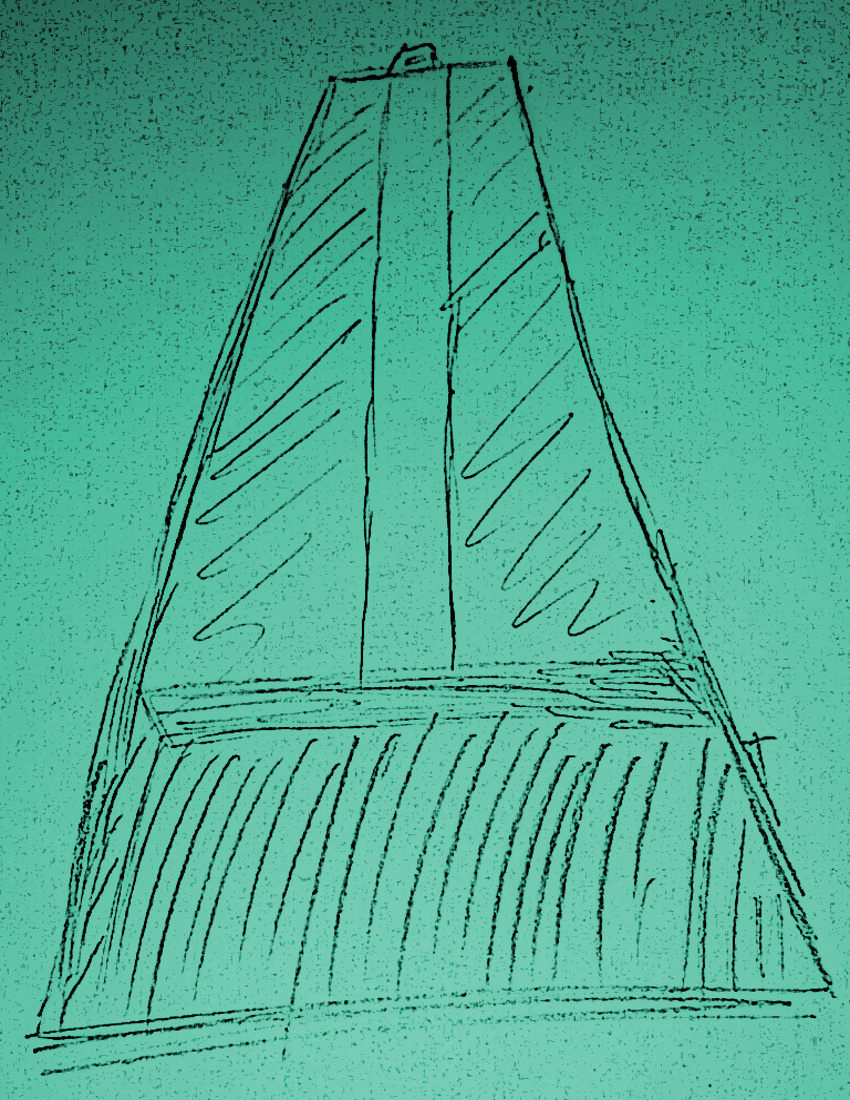
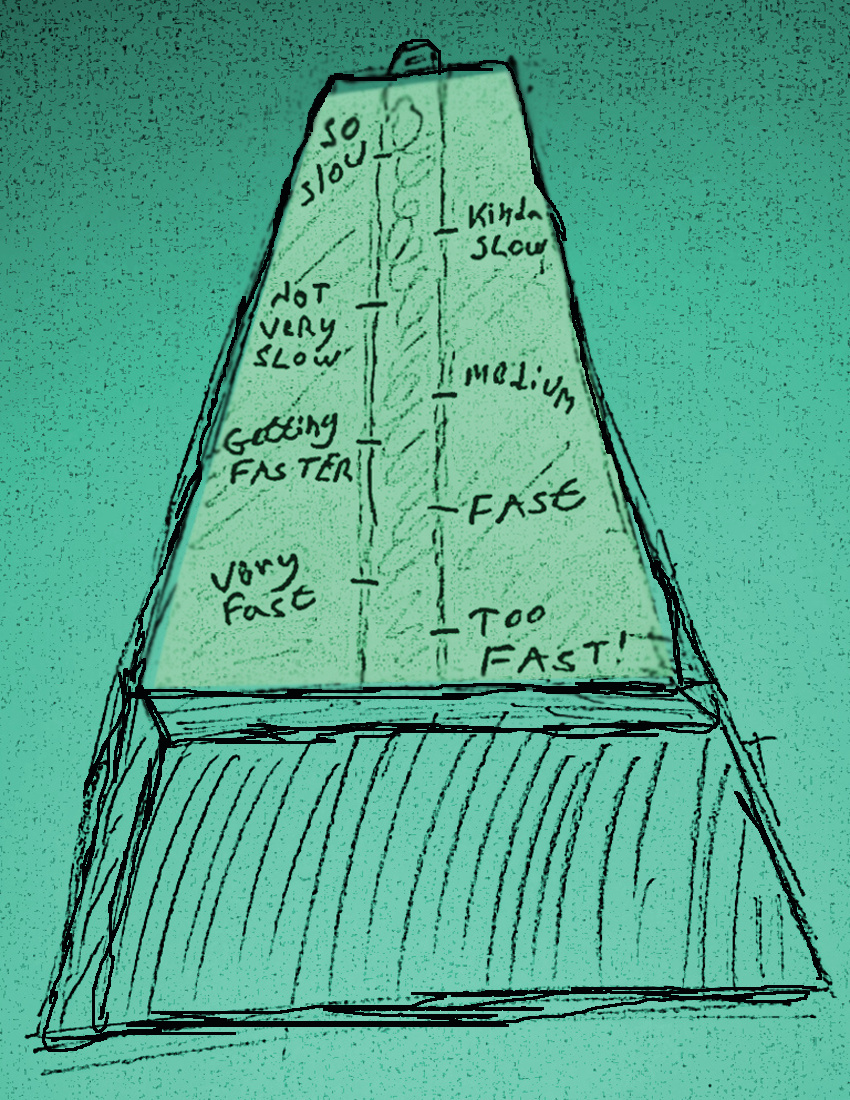
finish!

diff --git a/js/main.js b/js/main.js
@@ -1,12 +1,15 @@
 var game_main = function(game){
-    left = true;
     bpm = 120;
-    dragged = false;
-
     timeA = 0;
+    count = 0;
     
+    left = true;
+    dragged = false;
     weightHeight = 200;
     weightX = 392;
+    
+    sliderHeight = 280;
+    sliderWHeight = 280;
 };
 
 game_main.prototype = {
@@ -14,6 +17,46 @@ game_main.prototype = {
         
         metronome = this.add.sprite(0, 0, 'metronome');
         
+        /* silliness meter */    
+        meter = this.add.sprite(740, 280, 'meter');
+        meter.anchor.set(0.5, 0.5);
+        
+        slider = this.add.sprite(730, 280, 'slider');
+        slider.anchor.set(0.5, 0.5);
+        slider.scale.set(0.7, 0.7);
+        
+        slider.inputEnabled = true;
+        slider.input.enableDrag(true);
+        slider.input.allowHorizontalDrag = false;
+        
+        slider.events.onDragStop.add(function(){
+            if (slider.y < 180) slider.y = 180;
+            else if (slider.y > 405) slider.y = 405;
+            sliderHeight = slider.y;
+            
+        }, this);
+        
+        /* weight meter */
+        meterW = this.add.sprite(120, 280, 'meter');
+        meterW.anchor.set(0.5, 0.5);
+        
+        sliderW = this.add.sprite(110, 280, 'slider');
+        sliderW.anchor.set(0.5, 0.5);
+        sliderW.scale.set(0.7, 0.7);
+        
+        sliderW.inputEnabled = true;
+        sliderW.input.enableDrag(true);
+        sliderW.input.allowHorizontalDrag = false;
+        sliderW.tint = 0xffaaff;
+
+        sliderW.events.onDragStop.add(function(){
+            if (sliderW.y < 180) sliderW.y = 180;
+            else if (sliderW.y > 405) sliderW.y = 405;
+            sliderWHeight = sliderW.y;
+            
+        }, this);
+        
+        /* stick and weight */
         stick = this.add.sprite(415, 680, 'stick');
         stick.anchor.set(0.1, 1);
         
@@ -36,11 +79,17 @@ game_main.prototype = {
             weightHeight = weight.y;
             
         }, this);
+
+        bpmLabel = this.add.text(45, 20, '', {
+            font: '45px ' + font, fill: 'orange', fontWeight: 'normal', align: 'center'
+        });
         
-        //bpm = 120;
+        meterLabel = this.add.text(45, 70, '', {
+            font: '45px ' + font, fill: 'yellow', fontWeight: 'normal', align: 'center'
+        });
         
-        bpmLabel = this.add.text(90, 50, '', {
-            font: '45px ' + font, fill: 'darkred', fontWeight: 'normal', align: 'center'
+        soundsLabel = this.add.text(630, 35, '', {
+            font: '38px ' + font, fill: 'lightblue', fontWeight: 'normal', align: 'center'
         });
         
         metroSfx = [
@@ -109,12 +158,34 @@ game_main.prototype = {
             weight.angle = 0;
             weight.x = weightX;
         }
-
+        
+        slider.x = 730;
+        sliderW.x = 110;
     }
 };
 
 function creatSounds(){
-    var soundToPlay = metroSfx[game.rnd.integerInRange(0, metroSfx.length - 1)];
+    count++;
+    
+    var sillyLevel = ((405 - 180) / 18);
+    var sillyness = Math.floor((sliderHeight - 180) / sillyLevel);
+    soundsLabel.text = 'Sounds: ' + (sillyness + 1);
+    
+    var meterLevel = ((405 - 180) / 3);
+    var meter = (Math.floor((sliderWHeight - 180) / meterLevel)) + 2;
+    meterLabel.text = meter + '/4';
+    
+    var soundToPlay;
+    
+    if (count == meter){
+        soundToPlay = metroSfx[0];
+        count = 0;
+    }
+
+    else{
+        soundToPlay = metroSfx[game.rnd.integerInRange(1, sillyness)];
+    }
+    
     soundToPlay.play();
     
     if (timeA == 0) timeA = new Date().getTime();
@@ -124,8 +195,9 @@ function creatSounds(){
         timeC = timeB - timeA;
         
         bpm = 60000 / timeC;
-        bpmLabel.text = Math.round(bpm) + 'bpm';
+        bpmLabel.text = Math.round(bpm) + ' bpm';
         timeA = 0;
     }    
+
 }
 

diff --git a/js/preload.js b/js/preload.js
@@ -25,20 +25,20 @@ preloader.prototype = {
         game.load.image('metronome', 'images/metronome.jpg');
         game.load.image('stick', 'images/stick.png');
         game.load.image('weight', 'images/weight.png');
+        game.load.image('meter', 'images/meter.png');
+        game.load.image('slider', 'images/slider.png');
 
-       // game.load.spritesheet('leadersBtn', 'images/leadersBtn.png', 92, 95);
+        game.load.audio('sound1', 'audio/metronome1.mp3');
+        game.load.audio('sound2', 'audio/metronome2.mp3');
 
-
-        game.load.audio('sound1', 'audio/amp.mp3');
-        game.load.audio('sound2', 'audio/bing.mp3');
         game.load.audio('sound3', 'audio/can.mp3');
         game.load.audio('sound4', 'audio/can2.mp3');
         game.load.audio('sound5', 'audio/celery.mp3');
         game.load.audio('sound6', 'audio/cork.mp3');
         game.load.audio('sound7', 'audio/cork2.mp3');
         game.load.audio('sound8', 'audio/glass.mp3');
-        game.load.audio('sound9', 'audio/metronome1.mp3');
-        game.load.audio('sound10', 'audio/metronome2.mp3');
+        game.load.audio('sound9', 'audio/amp.mp3');
+        game.load.audio('sound10', 'audio/bing.mp3');
         game.load.audio('sound11', 'audio/scratch.mp3');
         game.load.audio('sound12', 'audio/tape.mp3');
         game.load.audio('sound13', 'audio/puncher.mp3');
